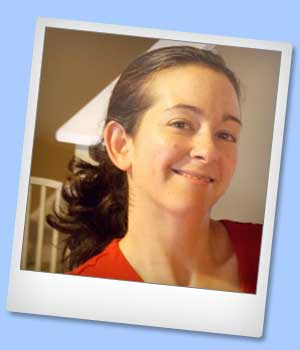
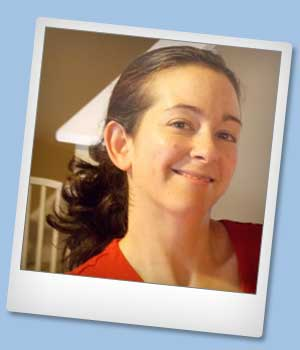
less bright light blue

Changed region(s): [[0.0, 0.0, 1.0, 1.0]]

diff --git a/stylesheets/foundation.css b/stylesheets/foundation.css
@@ -4,7 +4,7 @@
 
 html { font-size: 62.5%; height: 100%;}
 
-body { background: #aaccff; font-family: "Helvetica", Helvetica, Arial, sans-serif; font-size: 22px; line-height: 1; color: #000066; position: relative; -webkit-font-smoothing: antialiased; height: 100%;}
+body { background: #a3c3e3; font-family: "Helvetica", Helvetica, Arial, sans-serif; font-size: 22px; line-height: 1; color: #000066; position: relative; -webkit-font-smoothing: antialiased; height: 100%;}
 
 /* Links ---------------------- */
 a { color: #960; text-decoration: none; line-height: inherit; }
@@ -419,9 +419,9 @@ that IE7/8 do not support :nth-child.
 .button.alert { background-color: #c60f13; border: 1px solid #7f0a0c; }
 .button.alert:hover { background-color: #970b0e; }
 .button.alert:focus { -webkit-box-shadow: 0 0 4px #c60f13, 0 1px 0 rgba(255, 255, 255, 0.5) inset; -moz-box-shadow: 0 0 4px #c60f13, 0 1px 0 rgba(255, 255, 255, 0.5) inset; box-shadow: 0 0 4px #c60f13, 0 1px 0 rgba(255, 255, 255, 0.5) inset; }
-.button.secondary { background-color: #aaccff; color: black; border: 1px solid #3973ac; }
+.button.secondary { background-color: #a3c3e3; color: black; border: 1px solid #3973ac; }
 .button.secondary:hover { background-color: #407fbf; }
-.button.secondary:focus { -webkit-box-shadow: 0 0 5px #aaccff, 0 1px 0 rgba(255, 255, 255, 0.5) inset; -moz-box-shadow: 0 0 5px #aaccff, 0 1px 0 rgba(255, 255, 255, 0.5) inset; box-shadow: 0 0 5px #aaccff, 0 1px 0 rgba(255, 255, 255, 0.5) inset; }
+.button.secondary:focus { -webkit-box-shadow: 0 0 5px #a3c3e3, 0 1px 0 rgba(255, 255, 255, 0.5) inset; -moz-box-shadow: 0 0 5px #a3c3e3, 0 1px 0 rgba(255, 255, 255, 0.5) inset; box-shadow: 0 0 5px #a3c3e3, 0 1px 0 rgba(255, 255, 255, 0.5) inset; }
 .button.radius { -webkit-border-radius: 3px; -moz-border-radius: 3px; -ms-border-radius: 3px; -o-border-radius: 3px; border-radius: 3px; }
 .button.round { -webkit-border-radius: 1000px; -moz-border-radius: 1000px; -ms-border-radius: 1000px; -o-border-radius: 1000px; border-radius: 1000px; }
 .button.full-width { width: 100%; text-align: center; padding-left: 0px !important; padding-right: 0px !important; }
@@ -432,8 +432,8 @@ that IE7/8 do not support :nth-child.
 .button.disabled.success:hover, .button[disabled].success:hover { background-color: #cc0066; }
 .button.disabled.alert, .button[disabled].alert { background-color: #c60f13; }
 .button.disabled.alert:hover, .button[disabled].alert:hover { background-color: #c60f13; }
-.button.disabled.secondary, .button[disabled].secondary { background-color: #aaccff; }
-.button.disabled.secondary:hover, .button[disabled].secondary:hover { background-color: #aaccff; }
+.button.disabled.secondary, .button[disabled].secondary { background-color: #a3c3e3; }
+.button.disabled.secondary:hover, .button[disabled].secondary:hover { background-color: #a3c3e3; }
 
 /* Don't use native buttons on iOS */
 input[type=submit].button, button.button { -webkit-appearance: none; }
@@ -469,7 +469,7 @@ input[type=submit].button, button.button { -webkit-appearance: none; }
 .button.dropdown.split:hover { background-color: #3333cc; }
 .button.dropdown.split.alert:hover { background-color: #c60f13; }
 .button.dropdown.split.success:hover { background-color: #cc0066; }
-.button.dropdown.split.secondary:hover { background-color: #aaccff; }
+.button.dropdown.split.secondary:hover { background-color: #a3c3e3; }
 .button.dropdown.split > a { color: white; display: block; padding: 10px 50px 11px 20px; padding-left: 20px; padding-right: 50px; -webkit-transition: background-color 0.15s ease-in-out; -moz-transition: background-color 0.15s ease-in-out; -o-transition: background-color 0.15s ease-in-out; transition: background-color 0.15s ease-in-out; }
 .button.dropdown.split > a:hover { background-color: #2929a3; }
 .button.dropdown.split.large > a { padding: 15px 75px 16px 30px; padding-left: 30px; padding-right: 75px; }
@@ -487,7 +487,7 @@ input[type=submit].button, button.button { -webkit-appearance: none; }
 .button.dropdown.split.tiny span:after { content: ""; display: block; width: 0; height: 0; border: solid 3px; border-color: white transparent transparent transparent; margin-top: -1px; margin-left: -3px; }
 .button.dropdown.split.alert > span { background-color: #c60f13; border-left-color: #7f0a0c; }
 .button.dropdown.split.success > span { background-color: #cc0066; border-left-color: #800040; }
-.button.dropdown.split.secondary > span { background-color: #aaccff; border-left-color: #3973ac; }
+.button.dropdown.split.secondary > span { background-color: #a3c3e3; border-left-color: #3973ac; }
 .button.dropdown.split.secondary > a { color: black; }
 .button.dropdown.split.alert > a:hover, .button.dropdown.split.alert > span:hover { background-color: #970b0e; }
 .button.dropdown.split.success > a:hover, .button.dropdown.split.success > span:hover { background-color: #99004d; }
@@ -801,7 +801,7 @@ table.show-for-xlarge, table.show-for-large, table.hide-for-small, table.hide-fo
 div.alert-box { display: block; padding: 6px 7px 7px; font-weight: bold; font-size: 14px; color: white; background-color: #3333cc; border: 1px solid rgba(0, 0, 0, 0.1); margin-bottom: 12px; -webkit-border-radius: 3px; -moz-border-radius: 3px; -ms-border-radius: 3px; -o-border-radius: 3px; border-radius: 3px; text-shadow: 0 -1px rgba(0, 0, 0, 0.3); position: relative; }
 div.alert-box.success { background-color: #cc0066; color: #fff; text-shadow: 0 -1px rgba(0, 0, 0, 0.3); }
 div.alert-box.alert { background-color: #c60f13; color: #fff; text-shadow: 0 -1px rgba(0, 0, 0, 0.3); }
-div.alert-box.secondary { background-color: #aaccff; color: black; text-shadow: 0 1px rgba(255, 255, 255, 0.3); }
+div.alert-box.secondary { background-color: #a3c3e3; color: black; text-shadow: 0 1px rgba(255, 255, 255, 0.3); }
 div.alert-box a.close { color: #333; position: absolute; right: 4px; top: -1px; font-size: 17px; opacity: 0.2; padding: 4px; }
 div.alert-box a.close:hover, div.alert-box a.close:focus { opacity: 0.4; }
 
@@ -811,7 +811,7 @@ div.alert-box a.close:hover, div.alert-box a.close:focus { opacity: 0.4; }
 .label.round { padding: 1px 7px 2px; -webkit-border-radius: 1000px; -moz-border-radius: 1000px; -ms-border-radius: 1000px; -o-border-radius: 1000px; border-radius: 1000px; }
 .label.alert { background-color: #c60f13; }
 .label.success { background-color: #cc0066; }
-.label.secondary { background-color: #aaccff; color: black; }
+.label.secondary { background-color: #a3c3e3; color: black; }
 
 /* Tooltips ---------------------- */
 .has-tip { border-bottom: dotted 1px #cccccc; cursor: help; font-weight: bold; color: #333333; }
@@ -843,16 +843,16 @@ div.alert-box a.close:hover, div.alert-box a.close:focus { opacity: 0.4; }
 .panel.radius { -webkit-border-radius: 3px; -moz-border-radius: 3px; -ms-border-radius: 3px; -o-border-radius: 3px; border-radius: 3px; }
 
 /* Accordion ---------------------- */
-ul.accordion { margin: 0 0 22px 0; border-bottom: 1px solid #aaccff; }
-ul.accordion > li { list-style: none; margin: 0; padding: 0; border-top: 1px solid #aaccff; }
-ul.accordion > li .title { cursor: pointer; background: #79a6d2; padding: 15px; margin: 0; position: relative; border-left: 1px solid #aaccff; border-right: 1px solid #aaccff; -webkit-transition: 0.15s background linear; -moz-transition: 0.15s background linear; -o-transition: 0.15s background linear; transition: 0.15s background linear; }
+ul.accordion { margin: 0 0 22px 0; border-bottom: 1px solid #a3c3e3; }
+ul.accordion > li { list-style: none; margin: 0; padding: 0; border-top: 1px solid #a3c3e3; }
+ul.accordion > li .title { cursor: pointer; background: #79a6d2; padding: 15px; margin: 0; position: relative; border-left: 1px solid #a3c3e3; border-right: 1px solid #a3c3e3; -webkit-transition: 0.15s background linear; -moz-transition: 0.15s background linear; -o-transition: 0.15s background linear; transition: 0.15s background linear; }
 ul.accordion > li .title h1, ul.accordion > li .title h2, ul.accordion > li .title h3, ul.accordion > li .title h4, ul.accordion > li .title h5 { margin: 0; }
 ul.accordion > li .title:after { content: ""; display: block; width: 0; height: 0; border: solid 6px; border-color: transparent #264c73 transparent transparent; position: absolute; right: 15px; top: 21px; }
 ul.accordion > li .content { display: none; padding: 15px; }
 ul.accordion > li.active { border-top: 3px solid #3333cc; }
 ul.accordion > li.active .title { background: white; padding-top: 13px; }
 ul.accordion > li.active .title:after { content: ""; display: block; width: 0; height: 0; border: solid 6px; border-color: #264c73 transparent transparent transparent; }
-ul.accordion > li.active .content { background: white; display: block; border-left: 1px solid #aaccff; border-right: 1px solid #aaccff; }
+ul.accordion > li.active .content { background: white; display: block; border-left: 1px solid #a3c3e3; border-right: 1px solid #a3c3e3; }
 
 /* Side Nav ---------------------- */
 ul.side-nav { display: block; list-style: none; margin: 0; padding: 17px 0; }
@@ -879,7 +879,7 @@ ul.pagination li.current a { background: #3333cc; color: white; font-weight: bol
 ul.pagination li.current a:hover { background: #3333cc; }
 
 /* Breadcrums ---------------------- */
-ul.breadcrumbs { display: block; background: #79a6d2; padding: 6px 10px 7px; border: 1px solid #aaccff; -webkit-border-radius: 2px; -moz-border-radius: 2px; -ms-border-radius: 2px; -o-border-radius: 2px; border-radius: 2px; overflow: hidden; }
+ul.breadcrumbs { display: block; background: #79a6d2; padding: 6px 10px 7px; border: 1px solid #a3c3e3; -webkit-border-radius: 2px; -moz-border-radius: 2px; -ms-border-radius: 2px; -o-border-radius: 2px; border-radius: 2px; overflow: hidden; }
 ul.breadcrumbs li { margin: 0; padding: 0 12px 0 0; float: left; list-style: none; }
 ul.breadcrumbs li a, ul.breadcrumbs li span { text-transform: uppercase; font-size: 11px; font-size: 1.1rem; padding-left: 12px; }
 ul.breadcrumbs li:first-child a, ul.breadcrumbs li:first-child span { padding-left: 0; }
@@ -941,7 +941,7 @@ p.vevent abbr { cursor: default; text-decoration: none; font-weight: bold; borde
 /* Progress Bar ---------------------- */
 div.progress { padding: 2px; margin-bottom: 10px; border: 1px solid #cccccc; height: 25px; /* meter */ /* border radii */ }
 div.progress .meter { background: #3333cc; height: 100%; display: block; width: 50%; }
-div.progress.secondary .meter { background: #aaccff; }
+div.progress.secondary .meter { background: #a3c3e3; }
 div.progress.success .meter { background: #cc0066; }
 div.progress.alert .meter { background: #c60f13; }
 div.progress.radius { -webkit-border-radius: 3px; -moz-border-radius: 3px; -ms-border-radius: 3px; -o-border-radius: 3px; border-radius: 3px; }
